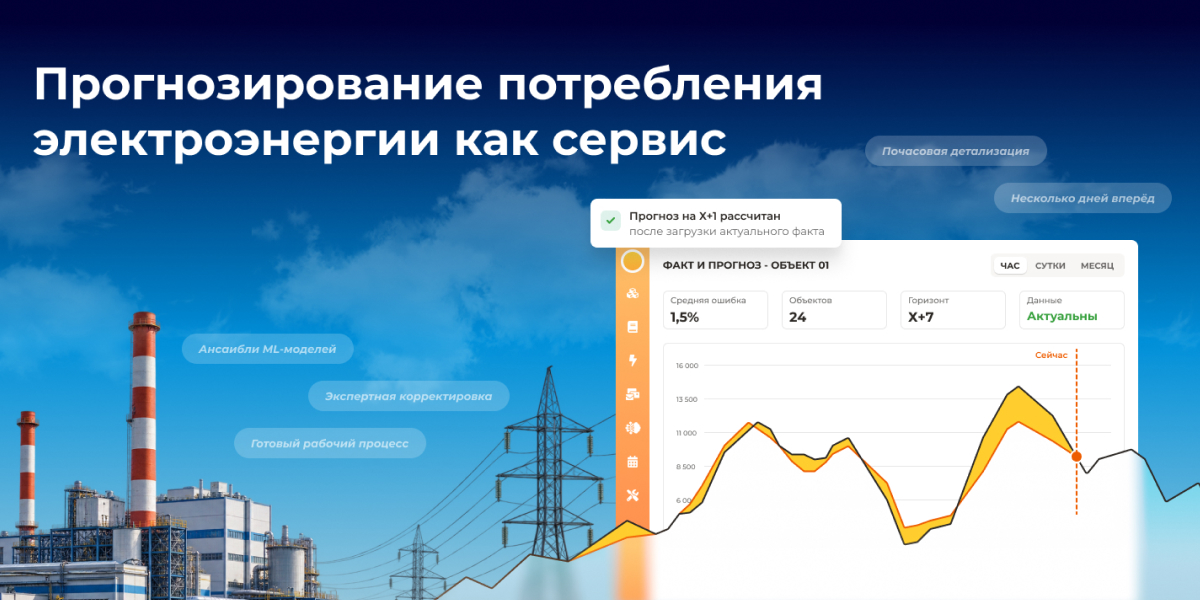
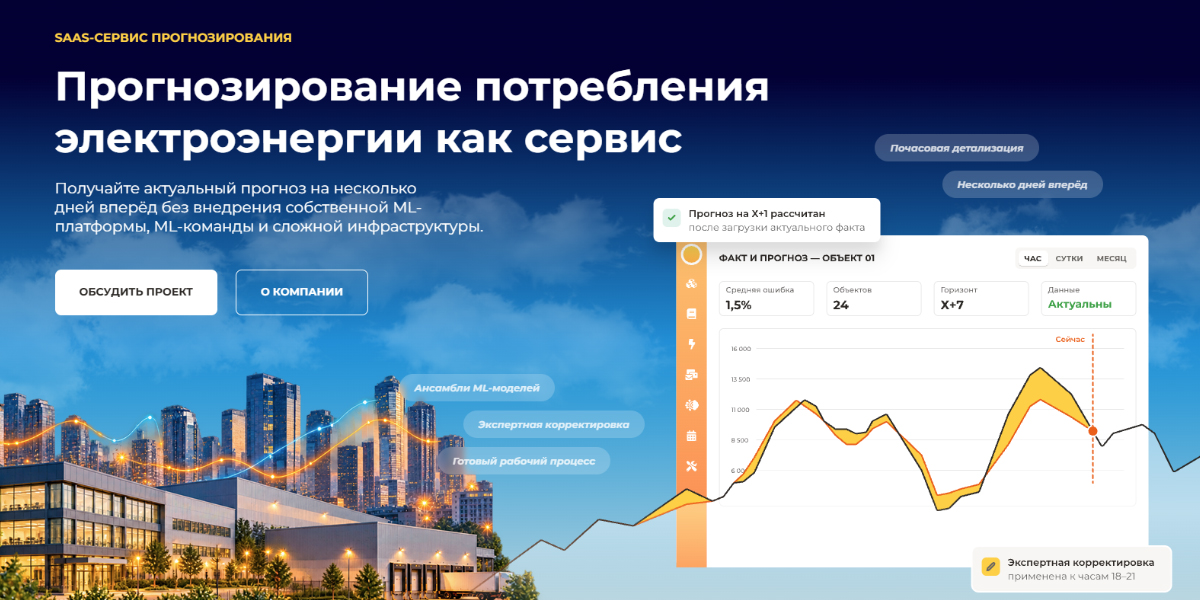
18

diff --git a/index.html b/index.html
@@ -321,7 +321,7 @@
             </div>
         </div>
         <div class="wrapper-img">
-            <img src="./assets/img/economic-effect-img.svg" alt="Экономический эффект">
+            <img src="./assets/img/economic-effect-img.jpg" alt="Экономический эффект">
         </div>
     </div>
 </section>

diff --git a/assets/css/style.css b/assets/css/style.css
@@ -594,6 +594,7 @@ small{
   width: 100%;
   min-width: 0;      /* ключевая строка */
   height: auto;
+  border-radius: var(--br);
 }
 .wrapper-text{
   flex: 1;
